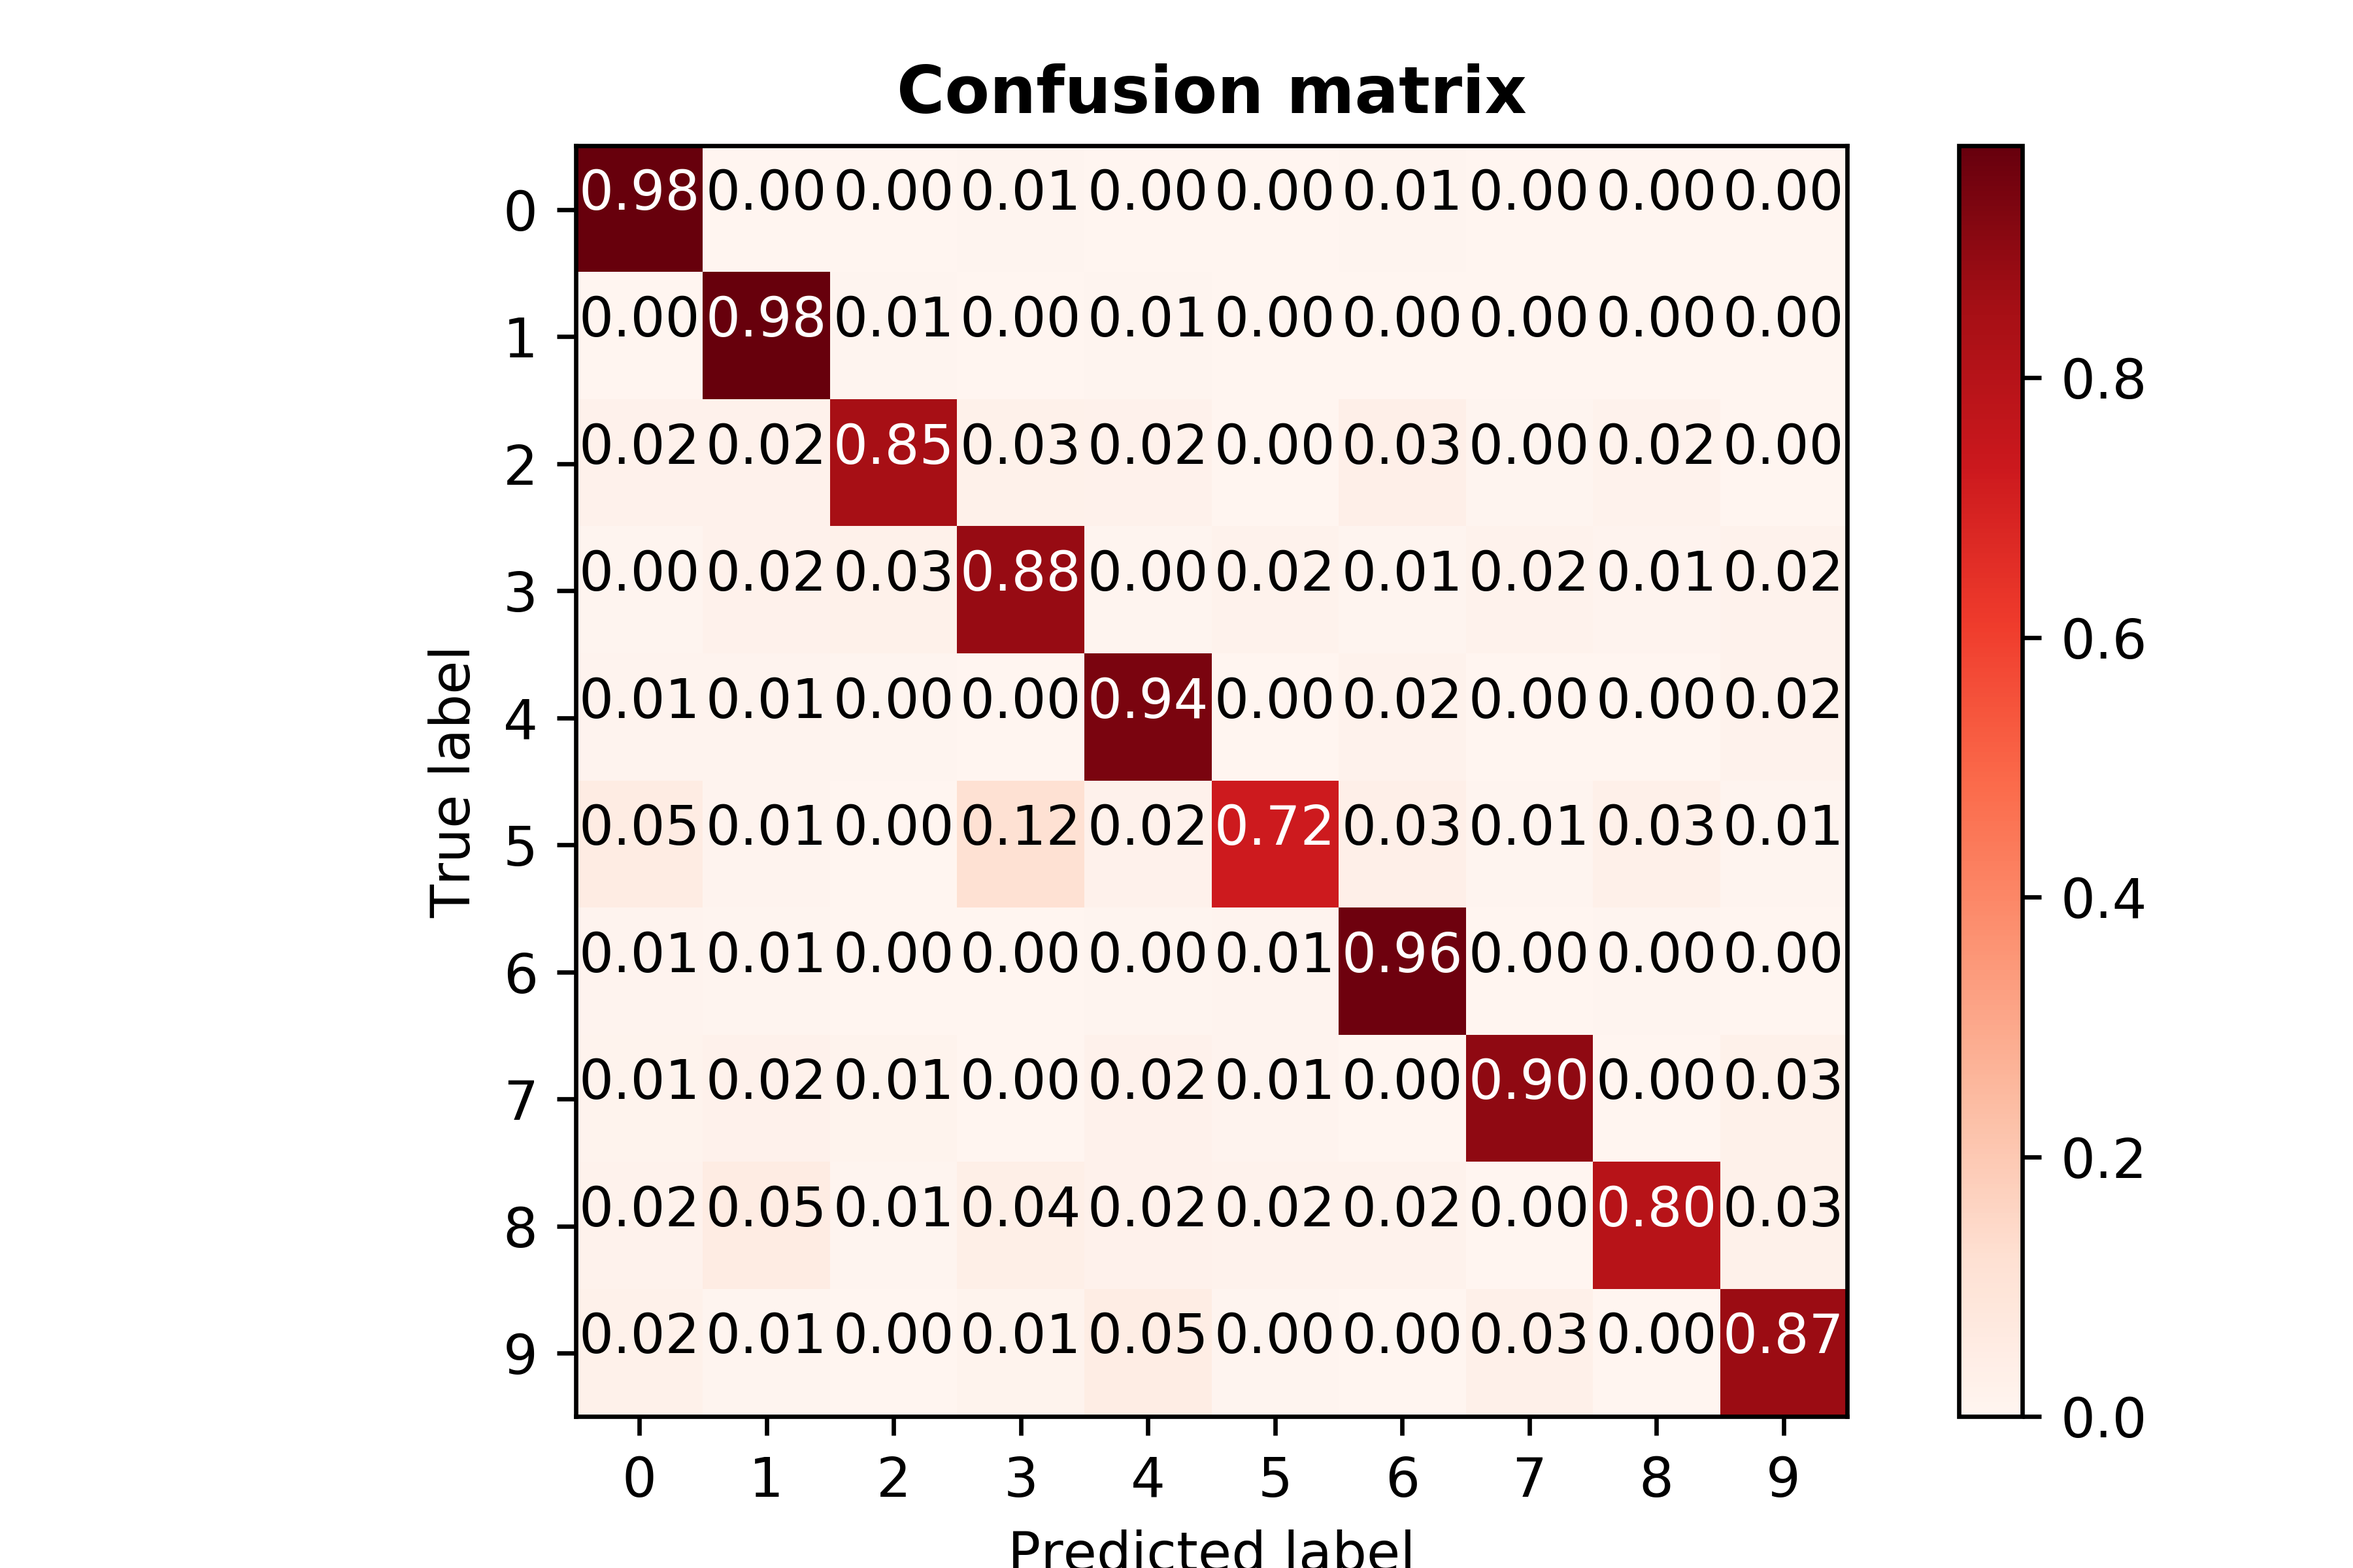
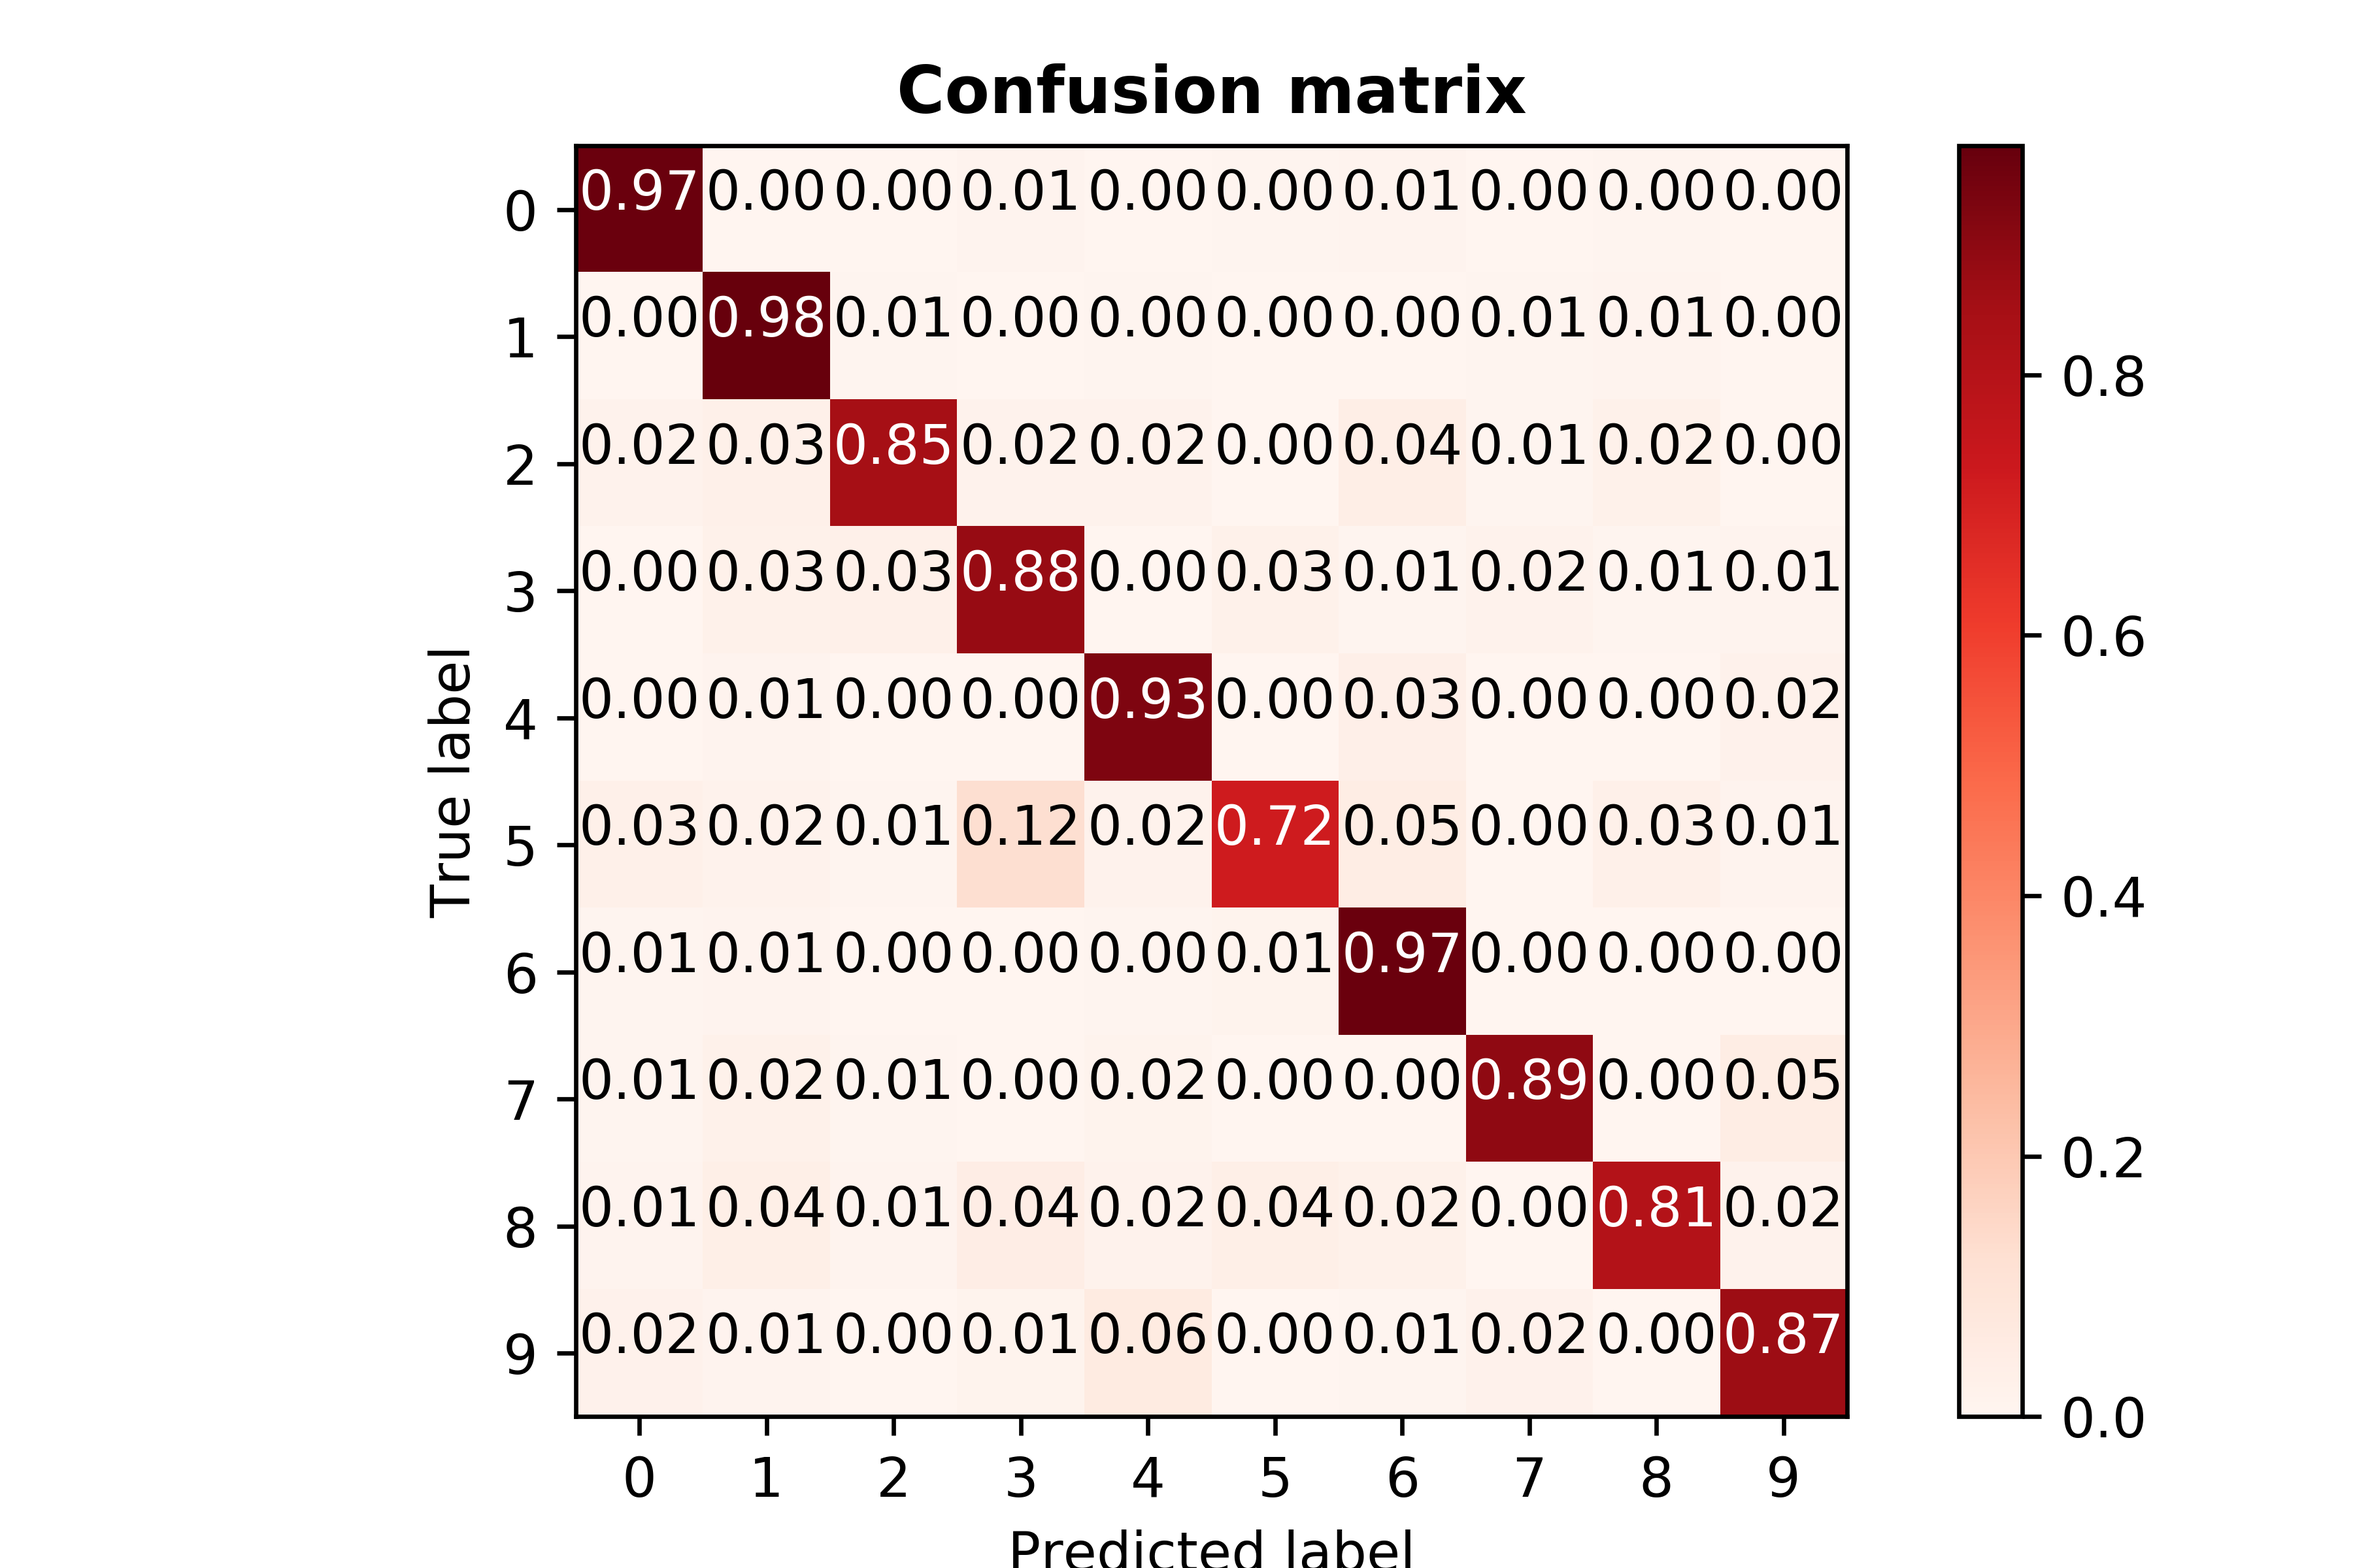
Edits for PCA 10-fold CV

diff --git a/code/mnist_neural_net.py b/code/mnist_neural_net.py
@@ -8,7 +8,7 @@ import mnist_utils
 import time
 
 mnist_all = mnist.get_MNIST_data()
-mnist_pca, _, _ = mnist.MNIST_pca(mnist_all)
+#mnist_pca, _, _ = mnist.MNIST_pca(mnist_all)
 
 mnist_train = list()
 mnist_test = list()
@@ -134,10 +134,11 @@ def cross_validation_k_fold(alpha = 'default', act_fcn = 'default', learn_rate =
     train_time = np.zeros(10)
     predict_time = np.zeros(10)
     
-    if not use_pca:
-        mnist_cv = mnist_all
-    else:
-        mnist_cv = mnist.MNIST_data(mnist_pca,mnist_all.target[:])
+#    if not use_pca:
+#        mnist_cv = mnist_all
+#    else:
+#        mnist_cv = mnist.MNIST_data(mnist_pca,mnist_all.target[:])
+    mnist_cv = mnist_all
         
     cv_obj = mnist_utils.MNIST_CV_Stratified(mnist_cv)
     for k in xrange(10):
@@ -151,7 +152,10 @@ def cross_validation_k_fold(alpha = 'default', act_fcn = 'default', learn_rate =
         if act_fcn == 'default': act_fcn = 'relu'; ac = 1
         
         if use_pca:
-            accuracy[k], y_score, train_time[k], predict_time[k], precision[k], recall[k] = neural_net_opt(alpha, act_fcn, learn_rate, train, test, k, True)
+            pc, mean = mnist_utils.MNIST_pca(train)
+            train_pca = mnist_utils.PCA_transform(train, pc, mean)
+            test_pca = mnist_utils.PCA_transform(test, pc, mean)
+            accuracy[k], y_score, train_time[k], predict_time[k], precision[k], recall[k] = neural_net_opt(alpha, act_fcn, learn_rate, train_pca, test_pca, k, True)
         else:
             accuracy[k], y_score, train_time[k], predict_time[k] = neural_net_opt(alpha, act_fcn, learn_rate, train, test, k)
         

diff --git a/code/mnist_svm.py b/code/mnist_svm.py
@@ -160,11 +160,11 @@ def cross_validation_k_fold(C, use_pca = False):
     train_time = np.zeros(10)
     predict_time = np.zeros(10)
 
-    if not use_pca:
-        mnist_cv = mnist_all
-    else:
-        mnist_cv = mnist.MNIST_data(mnist_pca,mnist_all.target[:])
-        
+#    if not use_pca:
+#        mnist_cv = mnist_all
+#    else:
+#        mnist_cv = mnist.MNIST_data(mnist_pca,mnist_all.target[:])
+    mnist_cv = mnist_all        
     cv_obj = mnist_utils.MNIST_CV_Stratified(mnist_cv)
     
     for k in xrange(10):
@@ -175,7 +175,10 @@ def cross_validation_k_fold(C, use_pca = False):
         train, test = cv_obj.get_train_test_split(10, k)
         
         if use_pca:
-            accuracy[k], y_score, train_time[k], predict_time[k], precision[k], recall[k] = svm_linear_param_C(C,train,test,k,True)
+            pc, mean = mnist_utils.MNIST_pca(train)
+            train_pca = mnist_utils.PCA_transform(train, pc, mean)
+            test_pca = mnist_utils.PCA_transform(test, pc, mean)
+            accuracy[k], y_score, train_time[k], predict_time[k], precision[k], recall[k] = svm_linear_param_C(C,train_pca,test_pca,k,True)
         else:
             accuracy[k], y_score, train_time[k], predict_time[k] = svm_linear_param_C(C,train,test,k)
         

diff --git a/code/mnist_utils.py b/code/mnist_utils.py
@@ -158,16 +158,17 @@ def MNIST_pca(mnist):
     mnist_data_centered = mnist.data - mnist.data.mean(axis=0)
     pca = PCA()
     pca.fit(mnist_data_centered)
-    var_explained = pca.explained_variance_ratio_()
+    var_explained = pca.explained_variance_ratio_
     n_components = np.min(np.where (np.cumsum(var_explained) > 0.9)) + 1
     pc = pca.components_[:n_components, :].T
-    return pc
+    return pc, mnist.data.mean(axis=0)
 
 
-def PCA_transform(mnist, pc):
-    mnist_data_centered = mnist.data - mnist.data.mean(axis=0)
+def PCA_transform(mnist, pc, mean):
+    mnist_data_centered = mnist.data - mean
     transformed_data = mnist_data_centered.dot(pc)
-    return transformed_data
+    mnist_transform = MNIST_data(transformed_data, mnist.target)
+    return mnist_transform
 
 
 def main():

diff --git a/code/main.py b/code/main.py
@@ -3,7 +3,7 @@ import svm_experiments
 import mnist_knn
 
 """Neural Network (Parameter tuning)"""
-neural_net_experiments.k_fold_CV_regularization_Neural_Net()
+#neural_net_experiments.k_fold_CV_regularization_Neural_Net()
 #neural_net_experiments.k_fold_CV_Activation_fcn_Neural_Net()
 #neural_net_experiments.k_fold_CV_Learn_rate_Neural_Net()
 #neural_net_experiments.neural_net_tss()
@@ -22,6 +22,6 @@ neural_net_experiments.k_fold_CV_regularization_Neural_Net()
 #mnist_knn.knn_expt_for_varied_tss()
 
 """Hypothesis testing"""
-#neural_net_experiments.k_fold_CV_hypothesis_test()
-#svm_experiments.k_fold_CV_hypothesis_test()
+neural_net_experiments.k_fold_CV_hypothesis_test()
+svm_experiments.k_fold_CV_hypothesis_test()
 #neural_net_experiments.k_fold_CV_hypothesis_test_without_PCA()
